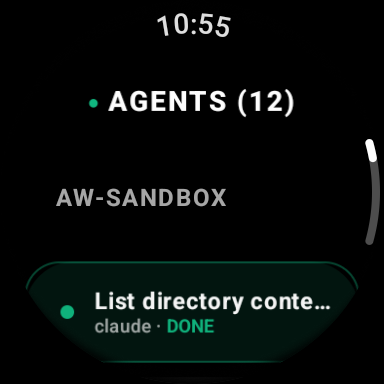
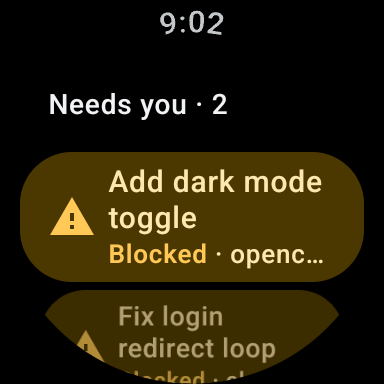
docs: README for the redesigned watch app, versions, releases and CI
- Status 2026-09-26: beta, in daily use; Phase 5 end-to-end still open.
- Screenshots of the new Wear OS UI (sample agents in the sandbox).
- Versions and Releases: VERSIONS, the commit in version strings, where each
  version shows, date-tagged releases, installing from one (checksums,
  quarantine, the plugin needs a checkout).
- Continuous Integration: what each workflow runs and when.
- The watch reaches the relay over any internet path, Bluetooth through the
  phone included (only Wi-Fi checked so far); troubleshooting for it.
- Known issues: the UI alpha line is gone; the resolved push stays off until
  Phase 5. Day-to-day: make bar, make check, the overrides check.
- STATUS: a Versions, CI and releases entry; the bar shows the relay version.
- macos-bar.yml also runs on pkg/buildinfo changes.

diff --git a/README.md b/README.md
@@ -2,13 +2,15 @@
 
 Agent Watch connects your wrist to your coding agents. When Claude Code, OpenCode, Antigravity, or other terminal agents need permission, ask a multiple-choice question, or finish a long task, Agent Watch alerts your smartwatch with glanceable context and actionable buttons (Allow, Deny, options, voice dictation). You can step away from the computer while it keeps running your agents: approve commands and follow progress from the watch.
 
-> **Status (2026-09-25): alpha.** The host bridge, the relay and the Wear OS data layer went through a full review. The Wear OS UI is still the first alpha and is being redesigned, and the end-to-end checks are being re-run after that ([`docs/STATUS.md`](docs/STATUS.md)). The watchOS app is the legacy client until Phase 6.
+> **Status (2026-09-26): beta, in daily use.** The host bridge, the relay and the redesigned Wear OS app are deployed and checked on a Pixel Watch 2. The full end-to-end run (Phase 5) is still open, and the watchOS app is the legacy client until Phase 6 ([`docs/STATUS.md`](docs/STATUS.md)).
 
 <p align="center">
-  <img src="docs/assets/watch-agents-list.png" width="200" alt="Agent List on Pixel Watch 2" />
-  <img src="docs/assets/watch-blocked.png" width="200" alt="Blocked Approval on Pixel Watch 2" />
-  <img src="docs/assets/watch-question.png" width="200" alt="Question Picker on Pixel Watch 2" />
+  <img src="docs/assets/watch-agents-list.png" width="180" alt="Agent list: agents that need you come first" />
+  <img src="docs/assets/watch-blocked.png" width="180" alt="A blocked agent asking for permission" />
+  <img src="docs/assets/watch-approve.png" width="180" alt="Allow and Deny, with the agent's other options below" />
+  <img src="docs/assets/watch-question.png" width="180" alt="Answering an agent's multiple-choice question" />
 </p>
+<p align="center"><sub>Wear OS app, sample agents in a sandbox workspace.</sub></p>
 
 ---
 
@@ -56,6 +58,7 @@ Agent Watch is built around a thin outbound host bridge, a minimal cloud relay, 
 ```
 
 - **Outbound-Only Networking:** The host dials outbound to the relay. The watch never connects directly to your computer, and no VPN is required on the watch.
+- **Any internet path should work for the watch:** it only needs to reach the relay over HTTPS and Firebase for push. Wi-Fi, LTE, or the paired phone's connection over Bluetooth (Wear OS routes it through the phone on its own; no companion app of ours is involved). Only Wi-Fi has been checked so far.
 - **Sole Source of Truth:** Herdr is the authoritative multiplexer and control plane. Agent Watch interfaces cleanly through Herdr's verified socket API.
 - **Any TLS reverse proxy** in front of the relay works (nginx, Caddy, Nginx Proxy Manager; Cloudflare optional). See [`deploy/relay/README.md`](deploy/relay/README.md).
 
@@ -131,6 +134,7 @@ On the machine that runs herdr:
    # = ./bin/agent-watch-bridge configure --env-file agent-watch.env
    ```
    - `configure` rewrites the whole `config.toml`. Pass optional settings every time, e.g. `make configure-bridge ARGS="--claude-config-dir ~/work/claude-profile --host-name my-mac"`; it warns when it drops one the old config had.
+   - Claude profiles in `~/.claude` and `~/.claude-*` are found on their own; `--claude-config-dir` is only for profiles elsewhere.
    - It is a CLI command, not a plugin action. The file is `~/.config/herdr/plugins/config/herdr-agent-watch/config.toml` by default.
    - Without the file: `./bin/agent-watch-bridge configure --relay-url wss://relay.<domain> --host-token <64-hex-token>` (the token then shows in `ps`).
 4. Start the bridge service (a LaunchAgent on macOS, a `systemd --user` unit on Linux):
@@ -216,6 +220,56 @@ For a relay and bridge set up by hand before this file existed. Nothing changes 
 | `./bin/agent-watch-bridge status` | Human status, including the relay's view; exit 1 when the bridge is not running |
 | `./bin/agent-watch-bridge status --json --local` | Local files only, no network: what the menu bar reads ([`contracts.md` §6.2](docs/reference/contracts.md)) |
 | `sudo agent-watch-relay devices list` / `devices revoke <id>` | On the VPS; works with the relay running, and a revoke takes effect at once |
+| `make bar` | Rebuild the menu bar app (quit the running one and `open bin/AgentWatchBar.app` again) |
+| `make check` | Format, vet and test the Go code (`make bar-test` for the menu bar logic) |
+| `tools/herdr-overrides/herdr-overrides.sh check` | After a herdr update: are the temporary detection overrides still needed? ([Known issues](#known-issues)) |
+
+---
+
+## Versions and Releases
+
+**Each component has its own version,** all in one file, [`VERSIONS`](VERSIONS) at the repo root:
+
+| Key | Component |
+|---|---|
+| `BRIDGE_VERSION` | `agent-watch-bridge` and the herdr plugin manifest |
+| `RELAY_VERSION` | `agent-watch-relay` |
+| `MENUBAR_VERSION` | the macOS menu bar app |
+| `WEAROS_VERSION_NAME` / `WEAROS_VERSION_CODE` | the Wear OS app (the code must go up for every build installed over an older one) |
+
+- Bump only the component that changed, with semantic versioning. The builds (`make`, the herdr plugin build, Gradle, `macos-bar/build.sh`, the deploy script) read the file.
+- The one copy elsewhere is `version` in `herdr-plugin.toml` (herdr cannot read the file): keep it equal to `BRIDGE_VERSION`. `make check-versions` (also part of `go test`) fails when they differ.
+- The Go binaries add the commit they were built from: `0.3.0 (26b4e93)`, or `0.3.0 (26b4e93, modified)` when built with uncommitted changes.
+- **Where to see them:** `agent-watch-bridge version`, `agent-watch-relay version`, the menu bar's **Versions** section (menu bar, bridge, and the relay while the bridge is connected), and the watch's Settings.
+
+**A release is a dated snapshot of the whole system.** Tag the commit with the date, `vYYYY.MM.DD` (`.2`, `.3`… for more on the same day), and push the tag:
+
+```bash
+git tag v2026.09.26 && git push origin v2026.09.26
+```
+
+The [release workflow](.github/workflows/release.yml) then publishes a GitHub release with:
+- `agent-watch-bridge` for macOS (arm64, amd64) and Linux (amd64, arm64), and `agent-watch-relay` for Linux (amd64, arm64), as static binaries;
+- `AgentWatchBar.app` (universal) as a zip;
+- `SHA256SUMS`, and notes with each component's version and the commits since the previous tag.
+
+The Wear OS app is not attached: it needs your own `google-services.json` and signing key, so build it from source ([step 3](#3-build-and-install-the-wear-os-app)).
+
+**Installing from a release** instead of building:
+- Check the download with `shasum -a 256 -c SHA256SUMS --ignore-missing`.
+- The macOS binaries and the app are not notarized. A file downloaded with a browser is quarantined: `xattr -d com.apple.quarantine <file>` (or right click → Open for the app).
+- The setup guide applies unchanged with the downloaded binary in place of `bin/…`, except the herdr plugin actions, which need a checkout (`herdr plugin link`). Run `agent-watch-bridge start` from a herdr pane (it takes the socket from `$HERDR_SOCKET_PATH`) or pass `--socket`.
+
+### Continuous Integration
+
+GitHub Actions, sized for the free plan (macOS minutes count ten times, so macOS jobs run only when their files change):
+
+| Workflow | Runner | When | What |
+|---|---|---|---|
+| [`ci.yml`](.github/workflows/ci.yml) | Linux | every push to `main` and pull request | `gofmt`, `go vet`, `go test -race`, static cross-builds; guard and `agent-watch.env` tool tests |
+| [`wearos.yml`](.github/workflows/wearos.yml) | Linux | changes under `wearos-app/` or `VERSIONS` | unit tests, lint and a debug build (with a placeholder `google-services.json`) |
+| [`macos-bar.yml`](.github/workflows/macos-bar.yml) | macOS | changes to the menu bar, the bridge CLI or `VERSIONS` | `make bar-test` and `make bar` |
+| [`release.yml`](.github/workflows/release.yml) | Linux + macOS | a `v*` tag (or by hand, as a dry run without publishing) | the release above |
 
 ---
 
@@ -256,7 +310,7 @@ For claude, agy and opencode a menu counts only while its dialog is open, so a n
 - **herdr 0.9.1 misses some open permission dialogs** (reports `done`/`idle`/`working` instead of `blocked`): every Antigravity CLI 1.2.x dialog, and any Claude Code dialog after Claude was relaunched in the same pane. The bridge only publishes prompts for `blocked` agents, so without a workaround the watch cannot answer them. **Workaround:** temporary local detection overrides for herdr in [`tools/herdr-overrides/`](tools/herdr-overrides/README.md) (`herdr-overrides.sh install`; run `check` after herdr updates its manifests and `uninstall` once upstream handles these dialogs). While a dialog is open, dictation to that agent is refused ("Answer the question first").
 - **OpenCode approvals need the default focus.** OpenCode's keys act on the focused button, and focus starts on `Allow once`. Before pressing, the bridge reads the screen with colours and checks the focus is still there; if someone moved it at the computer (arrow keys or mouse hover), the watch's answer is refused with nothing pressed, and must be given at the computer. Reject (`esc`) never depends on focus.
 - **watchOS is the legacy client.** The Apple Watch app does not use the relay API yet; Phase 6 rewrites it (simulator-only, best-effort).
-- **Wear OS UI is an alpha** and is being redesigned; the `resolved` push (which withdraws answered approvals) stays off on the relay (`AW_PUSH_RESOLVED`) until the new app ships.
+- **An approval answered at the computer can stay in the watch's notifications** until the app next sees the live state (e.g. when you open it). The `resolved` push that withdraws them is off by default (`AW_PUSH_RESOLVED`). The installed app already handles it; turning it on is part of the Phase 5 end-to-end run.
 
 ---
 
@@ -276,6 +330,7 @@ For claude, agy and opencode a menu counts only while its dialog is open, so a n
   - When the computer wakes up, the bridge automatically reconnects and clears the banner without user intervention.
 - **"herdr stopped" indicator:**
   - Indicates that the bridge is running but the herdr daemon is not responding on its UNIX socket. Start herdr to restore live monitoring.
+- **"Can't reach the relay" on the watch:** the watch has no internet path to the relay. On Bluetooth only, check the phone itself is online (the watch goes out through it). `curl https://relay.<domain>/v1/healthz` from any network tells whether the relay is up.
 - **Relay rejects the host token:** `status` shows the relay error. The relay and the bridge must hold the same `AW_HOST_TOKEN`: give both the one in `agent-watch.env` with `make deploy-relay ARGS=--sync-env` and `make configure-bridge && make restart`.
 
 ---
@@ -285,4 +340,4 @@ For claude, agy and opencode a menu counts only while its dialog is open, so a n
 - [`HERDR_REFACTOR_PLAN.md`](HERDR_REFACTOR_PLAN.md): the design.
 - [`docs/README.md`](docs/README.md): phase guides and references; [`docs/STATUS.md`](docs/STATUS.md): what is done and verified.
 - [`docs/reference/contracts.md`](docs/reference/contracts.md): every JSON shape, the relay's and the bridge's configuration, and `agent-watch.env` (§7).
-- [`ROADMAP.md`](ROADMAP.md): what comes next.
+- [`ROADMAP.md`](ROADMAP.md): what comes next, including an Android phone client on the same relay ([Phase 7](docs/phases/7-android-mobile.md)).

diff --git a/docs/STATUS.md b/docs/STATUS.md
@@ -161,18 +161,18 @@ Keep entries short, and use absolute dates (YYYY-MM-DD).
 - [x] systemd service running on the VPS
 - [x] Cloudflare DNS / NPM TLS with WebSockets and unbuffered SSE
 - [x] verify commands pass; SSE streaming and bridge connected
-- Public URL: https://relay.example.com
+- Public URL: https://relay.<domain>
 - Notes:
   - `deploy/relay/`: systemd unit `agent-watch-relay.service`, `env.example`, `deploy.sh`, `Caddyfile.example`, `nginx.conf.example`, `Dockerfile`.
   - Static Linux binary built with `CGO_ENABLED=0` and installed to `/usr/local/bin/agent-watch-relay`.
   - Hardened systemd service running under `agentwatch:agentwatch` with `ProtectSystem=strict`, `StateDirectory=agent-watch-relay` (mode 0700).
   - FCM push enabled and operational.
   - Nginx Proxy Manager (NPM) on the VPS terminating TLS via Let's Encrypt, forwarding to `172.17.0.1:8080` with WebSocket support and `proxy_buffering off;`.
-  - Host bridge daemon on macOS connected to `wss://relay.example.com/v1/host` with `relay_connected: true`, `host_online: true`, reporting active agent states.
+  - Host bridge daemon on macOS connected to `wss://relay.<domain>/v1/host` with `relay_connected: true`, `host_online: true`, reporting active agent states.
   - End-to-end pairing verified via `./bin/agent-watch-bridge pair` and `POST /v1/pair`. *(corrected 2026-09-25)* The code worked; the expiry `pair` printed did not (see Phase 2c).
   - Unbuffered SSE event streaming verified on `GET /v1/events`.
   - Bridge enhanced with automatic `NormalizeRelayURL` (appending `/v1/host` when omitted) and launchd retry on macOS.
-  - **Review fixes 2026-09-25:** `deploy.sh` takes `SSH_OPTS`, refuses a dirty tree, stamps `<version>-<sha>`, keeps `.prev`, health-checks `/v1/healthz` and rolls back on failure; `deploy/relay/README.md` documents the NPM-in-docker topology (listen on `172.17.0.1`, `After=docker.service` drop-in, trusted proxies, why `ufw` must not be enabled blindly), devices and a lost watch; the unit is further hardened (checked on the VPS: exposure 2.4 OK); nginx/Caddy examples set the forwarding headers; the Dockerfile prepares a `0700` data dir.
+  - **Review fixes 2026-09-25:** `deploy.sh` takes `SSH_OPTS`, refuses a dirty tree, stamps `<version>-<sha>` *(since 2026-09-26: `RELAY_VERSION` from `VERSIONS`, and the binary adds its commit, `0.3.0 (<sha>)`)*, keeps `.prev`, health-checks `/v1/healthz` and rolls back on failure; `deploy/relay/README.md` documents the NPM-in-docker topology (listen on `172.17.0.1`, `After=docker.service` drop-in, trusted proxies, why `ufw` must not be enabled blindly), devices and a lost watch; the unit is further hardened (checked on the VPS: exposure 2.4 OK); nginx/Caddy examples set the forwarding headers; the Dockerfile prepares a `0700` data dir.
   - **Deployed 2026-09-25** (`0.2.0-04f5568`, with `deploy.sh`): `AW_TRUST_CF_IP` removed and `AW_TRUSTED_PROXIES` set to the NPM docker network; relay bound to the docker bridge with the `After=docker.service` drop-in; port 8080 verified closed from the server side (RST to outside SYNs); hardened unit installed, `systemd-analyze verify` clean, `systemd-analyze security` exposure **2.4 OK**, no seccomp kills; `AW_PUSH_RESOLVED` left off.
 
 ## Phase 4 — Wear OS (primary)
@@ -271,6 +271,7 @@ Keep entries short, and use absolute dates (YYYY-MM-DD).
 ## macOS menu bar app (`macos-bar/`, not a numbered phase)
 - 2026-09-25: driven entirely by the bridge CLI (`status --json --local` every 2.5 s, `start`, `stop`, `restart`, `pair --json`); distinct icon states; `make bar`, `make bar-test` (decision logic, with a temp HOME; never touches launchd or the real home). Docs: `macos-bar/README.md`.
 - 2026-09-26: a status circle on the icon (green / yellow / red / gray) and nothing else next to it; the bar no longer shows agents or blocked counts (the watch does); a Versions menu section (this app and the bridge).
+- 2026-09-26: the Versions section also shows the relay's version (`relay_version` in `status.json`, from the relay's handshake header), while the bridge runs.
 - Verified with `make bar-test` only; the app itself on the owner's Mac is not recorded as verified.
 
 ---
@@ -279,6 +280,10 @@ Keep entries short, and use absolute dates (YYYY-MM-DD).
 - Done 2026-09-25: one git-ignored `agent-watch.env` (template `agent-watch.env.example`) holds the relay domain, the host token shared by relay and bridge, the relay's SSH target and its server keys. Consumers: `make config` (creates it, generates the token), `make configure-bridge` (`configure --env-file`, token never in argv), `make deploy-relay [ARGS=--sync-env]` (key-by-key merge of the server env with backup and rollback), Wear OS `BuildConfig.DEFAULT_RELAY_URL`, `make watchos-config` (xcconfig for Phase 6). Guards treat the file as a secret.
 - The owner's file was filled from the running deployment (token matches the relay's by hash; nothing redeployed).
 - Deferred: `AW_ANDROID_APPLICATION_ID` until the tile stops hard-coding the package name (Phase 4b item); the first `--sync-env` on the VPS should be watched (the merge is POSIX awk, tested with BSD awk only).
+
+## Versions, CI and releases (not a numbered phase)
+- Done 2026-09-26: one `VERSIONS` file with a version per component (`BRIDGE_VERSION`, `RELAY_VERSION`, `MENUBAR_VERSION`, `WEAROS_VERSION_NAME` / `WEAROS_VERSION_CODE`), read by the Makefile, `herdr-plugin.toml`'s `[[build]]`, `macos-bar/build.sh`, Gradle and `deploy.sh`; `make check-versions` (also in `go test`) keeps the manifest's `version` equal to `BRIDGE_VERSION`. The Go binaries add their commit (`pkg/buildinfo`: `0.3.0 (<sha>)`, `, modified` for a dirty tree). The relay sends its version to the authenticated bridge in the `/v1/host` handshake (`X-Agent-Watch-Relay-Version`, `contracts.md` §3) and the menu bar shows it.
+- GitHub Actions, sized for the free plan: `ci.yml` (Linux, every push), `wearos.yml` (Linux, `wearos-app/` changes), `macos-bar.yml` (macOS, only menu bar / bridge CLI changes), `release.yml` (date tags `vYYYY.MM.DD`: bridge, relay and menu bar binaries, `SHA256SUMS`, notes with the component versions). First runs happen on the next push.
 
 ## Blocked / questions
 - **herdr dialog-status gap — mitigated 2026-09-25, review regularly.** herdr 0.9.1 misses every agy 1.2.x permission dialog (its rule expects wording agy no longer shows) and any Claude dialog after Claude is relaunched in the same pane (a stale input box wins `live_prompt_box`; it is not WebFetch-specific). Hooks can't fix it: herdr ignores the state reported by the claude/agy integrations. Mitigation: temporary local detection overrides, `tools/herdr-overrides/` (installed on the owner's Mac, herdr keeps being the source of truth). **Remove them once upstream fixes it:** run `tools/herdr-overrides/herdr-overrides.sh check` after every herdr manifest update or upgrade. Draft upstream issues, not filed: `tools/herdr-overrides/UPSTREAM-ISSUES.md`.

diff --git a/ROADMAP.md b/ROADMAP.md
@@ -4,7 +4,7 @@ This document outlines the milestones achieved in the Herdr-native architecture 
 
 ---
 
-## Milestones Achieved (v0.2.0)
+## Milestones Achieved
 
 ### Core Architecture & Host Bridge
 - **Herdr-Native Control Plane:** Host daemon `agent-watch-bridge` in Go 1.22+, talking directly to the Herdr UNIX socket API (`events.subscribe`, `agent.list`, `agent.read`, `agent.prompt`, `agent.send_keys`). Snapshot-authoritative sync with debounced re-lists, degraded polling and backoff when the event stream drops.
@@ -21,6 +21,7 @@ This document outlines the milestones achieved in the Herdr-native architecture 
 - **Pairing rate limit** per client IP, taken from forwarding headers only when a trusted proxy (`AW_TRUSTED_PROXIES`) wrote them.
 - **Push Dispatch:** FCM HTTP v1 data messages for Wear OS (debounce, digest, per-token delivery, careful dead-token rule) and ntfy for watchOS. An opt-in `resolved` push withdraws answered approvals.
 - **Safe deploys:** `deploy.sh` refuses dirty trees, stamps the version, health-checks and rolls back.
+- **Versions and releases:** one `VERSIONS` file with a version per component, binaries that report their commit, CI on GitHub Actions and date-tagged GitHub releases (`vYYYY.MM.DD`).
 
 ### Agent Adapters (`pkg/agents`)
 - **First-Class Agent Support:** Specialized adapters for Claude Code (`claude`), OpenCode (`opencode`), and Antigravity CLI (`agy`), with real captured fixtures.
